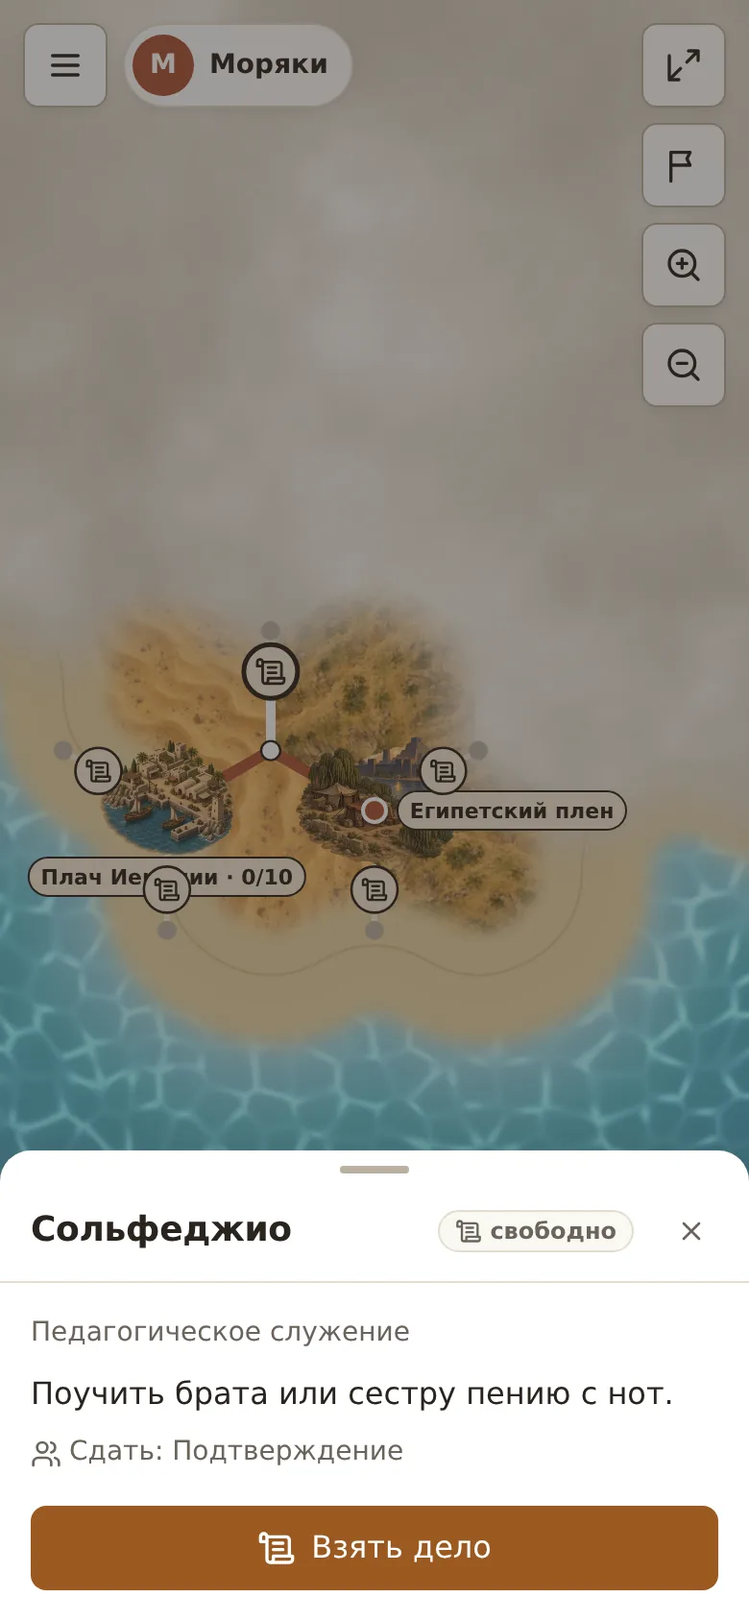
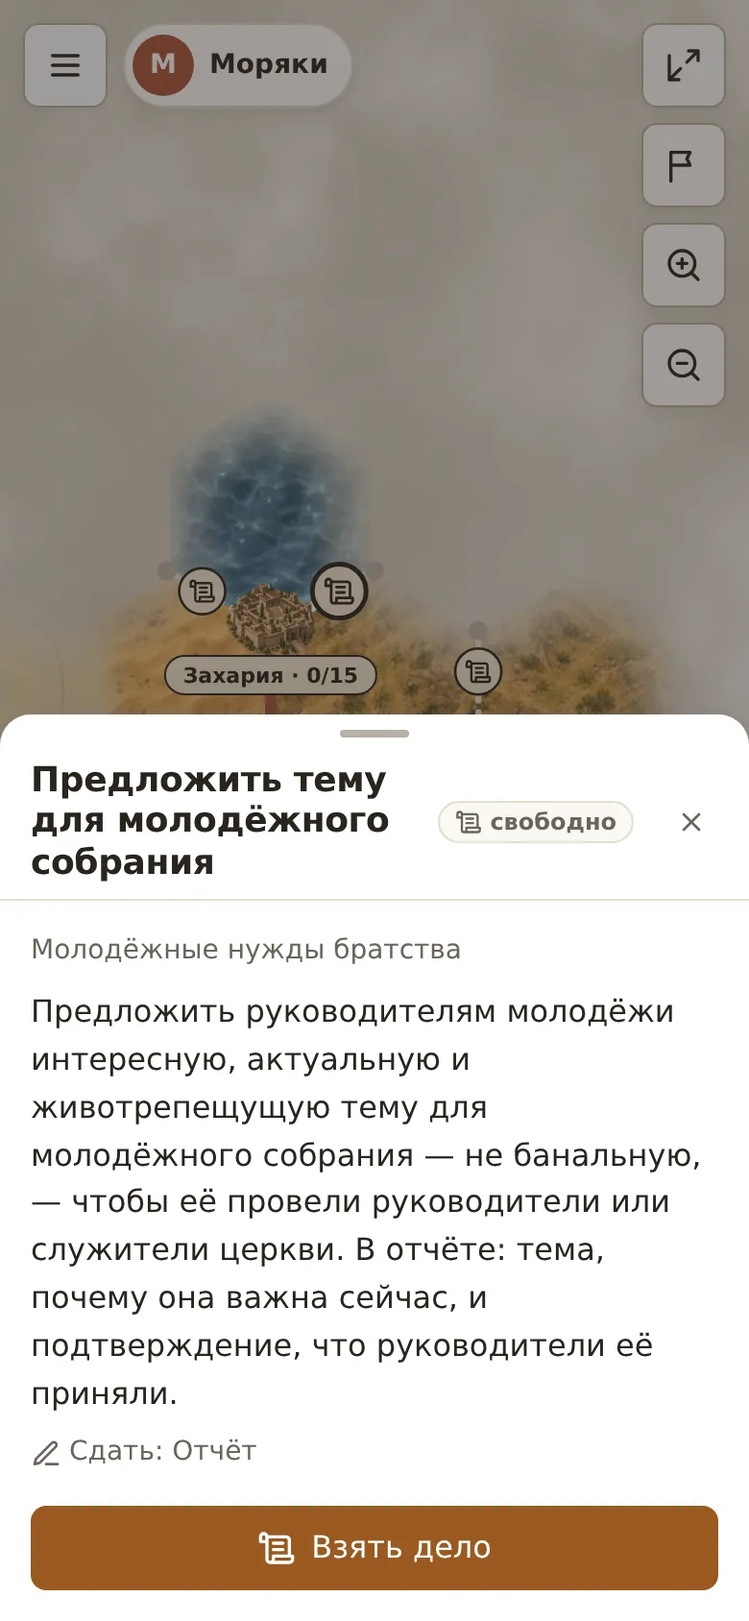
Знаки городов и стартов в полтора раза меньше; свежие скриншоты инструкции
Синхронизация набора дел не роняет сервер при недоступной базе.

Claude-Session: https://claude.ai/code/session_01GYZTpVpHB6EzyvMrXyiWEP

diff --git a/apps/web/src/pages/AdminMap.tsx b/apps/web/src/pages/AdminMap.tsx
@@ -92,7 +92,7 @@ export function AdminMap({ gameId, hexes, nodes, edges, progress, cities, battle
   const worldBody = useMemo(() => (<>
             {nodes.map((n) => {
               const p = positions.get(n.key)!;
-              const CITY = size * 1.15, START = size * 1.35;
+              const CITY = size * 0.77, START = size * 0.9; // решение владельца 16.09: знаки городов и стартов в полтора раза меньше прежних (1,15 и 1,35)
               if (n.kind === "START") return <image key={"s" + n.key} href={IMG.start(n.teamIndex ?? 0)} x={p.x - START / 2} y={p.y - START * 0.58} width={START} height={START} />;
               if (n.kind === "CITY") {
                 const owner = ownerOf.get(n.key);
@@ -143,7 +143,7 @@ export function AdminMap({ gameId, hexes, nodes, edges, progress, cities, battle
                       {seen.map((tm, i) => <circle key={tm.id} className="quiet" cx={14 - i * 9} cy={-14} r={4.5} fill={tm.color} stroke="var(--surface)" strokeWidth={1} />)}
                     </g>
                     {showLabels && (
-                      <g className="pick" style={sc(raw.x, raw.y + size * 1.15 * 0.48)} onClick={pick}>
+                      <g className="pick" style={sc(raw.x, raw.y + size * 0.77 * 0.48)} onClick={pick}>
                         <g className="quiet">
                           <rect x={-lw / 2} y={-10} width={lw} height={20} rx={10} fill={sel ? "var(--accent)" : "var(--map-paper)"} stroke="var(--text)" strokeWidth={1} />
                           <text textAnchor="middle" dy="0.35em" fontSize={11} fontWeight={700} fill={sel ? "var(--on-accent)" : "var(--text)"}>{label}</text>

diff --git a/apps/web/src/lib/en/changelog.ts b/apps/web/src/lib/en/changelog.ts
@@ -1,6 +1,7 @@
 /** EN-строки раздела «Что нового». Ключ — русская строка из content/changelog.ts. */
 export const CHANGELOG_EN: Record<string, string> = {
   "Что нового": "What's new",
+  "Знаки городов и стартовых точек на карте уменьшены в полтора раза.": "City and starting-point markers on the map are one and a half times smaller.",
   "Новые и изменённые дела стандартного набора теперь сами попадают в идущие игры, где набор использован; дела, которые администратор правил, не трогаются.": "New and changed deeds of the default set now reach running games that use the set by themselves; deeds edited by the administrator are left alone.",
   "В стандартном наборе дел появился пост за нужды семьи, молодёжи, церкви или братства; в деле про угощение уточнено: любого человека, кроме ближайших родственников.": "The default deed set gained a fast for the needs of family, youth, church or brotherhood; the meal deed now says: anyone except close relatives.",
   "След за парусниками и зверями идёт по пройденному пути и повторяет все повороты, расходясь и растворяясь с расстоянием.": "The wake behind ships and sea creatures follows the path travelled and repeats every turn, spreading and fading with distance.",

diff --git a/apps/web/src/content/changelog.ts b/apps/web/src/content/changelog.ts
@@ -6,6 +6,7 @@ export interface ChangeDay { date: string; items: string[] }
 
 export const CHANGELOG: ChangeDay[] = [
   { date: "2026-09-16", items: [
+    "Знаки городов и стартовых точек на карте уменьшены в полтора раза.",
     "Новые и изменённые дела стандартного набора теперь сами попадают в идущие игры, где набор использован; дела, которые администратор правил, не трогаются.",
     "В стандартном наборе дел появился пост за нужды семьи, молодёжи, церкви или братства; в деле про угощение уточнено: любого человека, кроме ближайших родственников.",
     "По большому морю неспешно ходят парусники трёх видов: рыбацкий шлюп, когг с прямым парусом и трёхмачтовый корабль — вид сверху, как вся карта, с обшивкой, снастями и надутыми парусами.",

diff --git a/apps/web/src/pages/TeamMap.tsx b/apps/web/src/pages/TeamMap.tsx
@@ -80,7 +80,7 @@ export function TeamMap({ map, teamIndex, selectedTaskId, onSelect, onSelectCity
   // Уровни детализации: при отдалении метки дел прячутся, подписи городов становятся короче и мельче.
   const showMarkers = k >= 0.9, fullLabels = k >= 1.6, showForks = k >= 0.7;
   // Город масштабируется с картой: сидит на перекрёстке и занимает место до середины трёх сторон.
-  const CITY = size * 1.15, START = size * 1.35;
+  const CITY = size * 0.77, START = size * 0.9; // решение владельца 16.09: знаки городов и стартов в полтора раза меньше прежних (1,15 и 1,35)
   /** Экранный элемент в точке карты: сдвиг в единицах карты, размер — через --inv (ставится на каждый кадр жеста), extra — после масштаба. */
   const sc = (x: number, y: number, extra = "") => ({ transform: `translate(${x}px, ${y}px) scale(var(--inv, 1))${extra ? " " + extra : ""}` });
 

diff --git a/apps/api/src/services/defaultDeeds.ts b/apps/api/src/services/defaultDeeds.ts
@@ -125,7 +125,8 @@ export async function removeDeed(gameId: string, deedId: string): Promise<boolea
 
 /** При старте сервера: все незавершённые игры. */
 export async function syncAllGames(log: { info: (o: object, msg: string) => void; error: (o: object, msg: string) => void }): Promise<void> {
-  const games = await prisma.game.findMany({ where: { status: { not: "FINISHED" } }, select: { id: true } });
+  // Недоступная база при старте не должна ронять сервер: сервер поднимется, синхронизация пройдёт при следующем запуске.
+  const games = await prisma.game.findMany({ where: { status: { not: "FINISHED" } }, select: { id: true } }).catch((e: unknown) => { log.error({ err: e }, "default deeds sync skipped: database unavailable"); return [] as Array<{ id: string }>; });
   const total: SyncResult = { added: 0, updated: 0, removed: 0 };
   for (const g of games) {
     try { const r = await syncGameDeeds(g.id, "auto"); total.added += r.added; total.updated += r.updated; total.removed += r.removed; }

diff --git a/docs/LANDS_OF_THE_WORD.md b/docs/LANDS_OF_THE_WORD.md
@@ -704,6 +704,8 @@ npm run typecheck
 
 ### 12.1a Слои карты (реализовано, сентябрь 2026)
 
+✅ **Размер знаков (решение владельца 16.09):** картинка города — 0,77 гекса, стартовой точки — 0,9 гекса (в полтора раза меньше прежних 1,15 и 1,35); подпись города стоит под картинкой на 0,48 её размера. Скриншоты инструкции перегенерированы.
+
 Снизу вверх: **море** — WebGL-шейдер под SVG (`pages/SeaGL.tsx`), без картинок и без плиток (решение владельца 14.09: любая плитка, даже с несоизмеримыми масштабами и поворотами, читалась как повтор): цвет каждого пикселя считается прямо в координатах карты, повторяться нечему. Вода: две сети мелкой живой каустики (клеточный шум с ячейкой около половины гекса; точки ячеек чуть дрожат, а вся сеть плывёт по ветру — мелкая быстрее, крупная медленнее; координаты искажены двумя шумами, крупный неподвижен, мелкий бежит по ветру, поэтому линии кривые и «дышат»; сети перемножаются — светятся пятна и пересечения, а не паутина), блики гаснут пятнами по маске, крупная зыбь темнит воду и идёт тем же ветром ещё медленнее, поверх — пологие ветровые волны пятнами (два фронта, фаза сломана шумом, полосатости нет); при отдалении рябь тает и вода с высоты гладкая. Одно направление ветра для всего — решение владельца 14.09: движение должно быть согласованным, а не хаотичным. **Цвет воды — по глубине** (`pages/Seabed.ts`, решение владельца 15.09, пример — снимок Земли): один раз на карту считается поле глубины низкого разрешения над поясом моря — расстояние до ближайшего гекса поля или островка; у берега светлый шельф (около 7 радиусов гекса, ширина гуляет по крупному шуму — граница неровная; у островков шельф вдвое уже), между близкими островами и в проливе тоже светло, вдали тёмная глубина; в глубокой воде шумом добавлены светлые гряды и тёмные впадины; блики каустики ярче на мели. Шейдер читает поле как текстуру с плавной интерполяцией, запасной canvas — как готовую раскраску. Поле загружается в живой WebGL-контекст отдельным эффектом: пересоздание контекста при каждой перезагрузке карты (сохранение настроек, события игры) теряло его, и море падало на запасной canvas — владелец видел «старое море» (15.09, исправлено); границы поля, островки и дно считаются по ключу гексов, а не по новому объекту массива. ~30 кадров в секунду при видимой вкладке, разрешение 0,7 (на больших экранах 0,55) CSS-пикселя — шейдер считается на каждый пиксель, и это главная нагрузка; шум в 3 октавы; пауза в скрытой вкладке; без WebGL — запасной вариант на canvas 2D с узорами шума (`SeaCanvas`). Рецепт по источникам о стилизованной воде (Worley-каустика F2−F1, домен-варп, перемножение двух выборок, ограничение плотности) собран агентом-исследователем; **гексы местности** (`TilesLayer`, решение владельца 15.09 после «фризов» зума) — canvas под миром: картинки местности рисуются в растр для текущего вида с запасом в половину экрана, при перетаскивании растр сдвигается, при щипке масштабируется и обновляется резким не чаще 100 мс (берег — 180 мс), окончательно — через 140 мс покоя; разрешение растра гексов не выше 1.5 CSS-пикселя, берега — 0.5 (он размыт, и полноэкранное размытие в 2–3× плотности на ноутбуке «фризило» зум); раньше это были SVG-узоры с картинками у 140 гексов, и каждая фиксация масштаба перерастрировала их целиком; **мир** — SVG размером с экран плюс запас 0.4 экрана вокруг, viewBox — видимая область карты под зафиксированный масштаб (решение владельца 15.09: SVG размером со всю карту при приближении «фризил» зум на компьютере); между фиксациями композитор двигает и масштабирует растр CSS-трансформацией, после жеста viewBox пересчитывается и слой растрируется заново один раз, но растр никогда не больше экрана с запасом; если по ходу жеста масштаб ушёл дальше ×1.5 или сдвиг дальше 0.3 экрана — фиксация происходит прямо в жесте, чтобы края не оголялись; переменные `--k`/`--inv` обновляются не чаще 120 мс: границы гексов, берег над гексами (песок, растворяющийся в местность двенадцатью узкими кольцами, линия влажного песка), стороны, города; **озёра** (`pages/Lakes.tsx`, решение владельца 15.09: «не просто наложение сверху») — WebGL-слой под миром рисует каждое открытое озеро целиком: картинка воды преломляется (колышется) двумя шумами, к берегу мельче и светлее, блики каустики, ветровая рябь и искры солнца, край сглажен; в SVG мира у такого гекса нет заливки, только граница; без WebGL — обычная картинка; ~30 кадров в секунду, при «уменьшить движение» неподвижно; шум общий с морем (`NOISE_GLSL` в `SeaGL.tsx`); **туман** — canvas без событий: облака из бесшовного шума трёх плиток (считается в коде, без картинок), маска тумана — гексы с расширением и растушёвкой, строится только при изменении тумана; пониженное разрешение, ~24 кадра в секунду для дрейфа и сразу при движении карты, пауза в скрытой вкладке, при «уменьшить движение» — без дрейфа; **живность** — canvas: кит, косатка и стайка дельфинов приходят из-за края карты, огибают остров по воде (прямая между двумя дальними точками выталкивается на профиль берега) и уходят за противоположный край, пауза вне экрана и новый маршрут; чайки кружат у берега, клин птиц перелетает остров от края до края; мир живности живёт независимо от перерисовок карты; всё рисуется кодом в единицах карты, ~24 кадра в секунду, при «уменьшить движение» слой не показывается; **названия островов** («Ветхий Завет», «Новый Завет», показываются при отдалении) — по дуге вдоль нижнего берега, как на старых картах (выбор владельца 15.09 из шести вариантов размещения: в центре острова подпись спорила с номерами городов у администратора): невидимая дуга 200° радиусом «остров + 4 гекса» с центром острова, текст по её середине (`IslandLabel`, `islandGeometry`); шрифт Philosopher (OFL, файлы кириллицы и латиницы в `apps/web/public/fonts`, подключён в `base.css`, используется только здесь) капителью с разрядкой, светлые буквы с мягкой тёмной тенью и тонкой обводкой — читаются на воде; при отдалении уменьшаются не ниже 0.7; **подписи и значки** — второй SVG мира, элементы стоят в координатах карты со `scale(1/k)`, поэтому при перетаскивании их тоже двигает композитор. Вид (масштаб и сдвиг) живёт в ref и рассылается слоям сразу; состояние React («зафиксированный» масштаб, под который мир растрируется заново) обновляется только в конце жеста и по кнопкам. По ходу жеста детали масштабируются CSS-переменными, которые `WorldSvg` ставит на каждый кадр: `--k` (толщины линий), `--inv` (подписи и метки, при отдалении до половины), `--inv-isl` (названия островов, не ниже 0.7) — экранные элементы стоят как `translate(x,y) scale(var(--inv))`, без перерисовки React и без перерастрирования: детали масштабируются уже пока пальцы на экране, а не только после отпускания (решение владельца 14.09). Толщины линий задаются в пикселях экрана через CSS-переменную `--k`; при отдалении (k < 1) стороны уменьшаются вместе с картой. Береговая линия считается в `packages/domain/src/coast.ts` (контуры границы поля, сглажены кривыми через середины сторон). Земля под туманом — ровный светлый цвет, облака поверх; край облака растворяется в открытую зону примерно на полгекса. Город команды обведён по контуру картинки цветом команды (SVG-фильтр расширения альфа-канала), метки дел стоят на двух третях стороны от известного перекрёстка. Минимальный масштаб — вдвое мельче, чем «вся карта» (вокруг острова остаётся широкое море), максимальный — в 8 раз крупнее «всей карты». Листать карту можно в пределах пояса моря вокруг поля (`seaField`: запас 0.6 большей стороны поля с каждой стороны) или на треть экрана за поле — что щедрее; при приближении пояс растёт вместе с масштабом, и в море можно уйти далеко. **Берег и острова** — общий canvas между морем и миром (`apps/web/src/pages/Islets.tsx`): отмель поля (28 узких колец с подобранной прозрачностью, суммарная плотность растёт плавно), полоса песка и песок, растворяющийся в отмель, плюс отмели островков рисуются во временный canvas и переносятся на экран с размытием на шаг колец — переход воды в песок сплошной, без ступенек и резкой кромки (решение владельца 15.09). Растр берега кэшируется для вида (с запасом в половину экрана вокруг): при перетаскивании он сдвигается, при щипке масштабируется как картинка, пересчитывается через 140 мс после того, как вид устоялся — размытие не считается на каждый кадр. Canvas размером с экран, поэтому стоимость не зависит от масштаба; фильтр размытия в SVG мира был бы дорог для телефона (весь остров в пикселях устройства при каждом перерастрировании). Без поддержки фильтров canvas (старый Safari) — те же кольца без размытия. **Острова** (`packages/domain/src/islets.ts`, контуры `isletShapes.ts`, рисование в `apps/web/src/pages/Islets.tsx`) — украшение без узлов и механики: шесть нарисованных островов (`apps/web/public/img/islet/islet-N.webp`, исходники PNG рядом; вид сверху как у городов, прозрачный фон, пляж на картинке). В поясе моря (запас в одну большую сторону поля с каждой стороны) детерминированно по набору гексов поля раскладываются девять островов; **размер — решение владельца**: самый большой около четверти площади главного острова (r ≈ 3.6 гекса), остальные меньше; **детали на картинках должны быть в масштабе поля** (пальма не больше пальмы у города), для такого размера нужны исходники 4096 px. У каждой картинки по прозрачности снят контур (72 радиуса от центра, скрипт `scripts/islet-shapes.py`): по нему под картинкой рисуется та же плавная отмель, что у главных островов и по нему живность обходит остров. Картинки островов рисуются на том же canvas без размытия (в SVG мира браузер растягивал бы готовый растр при приближении, и острова мылились). Не ближе отмели к полю и не пересекаются между собой. Киты, косатки и дельфины обходят их (маршруты сквозь островок отбраковываются, жёсткая граница воды выталкивает и от островков). Живности: два кита, две косатки, две стаи дельфинов, пять чаек и клин птиц. ✅ **Парусники (решение владельца 16.09):** в слое живности (`pages/Fauna.tsx`) по большому морю ходят четыре парусника трёх видов — рыбацкий шлюп с косым парусом, одномачтовый когг с прямым парусом и трёхмачтовый корабль; рисуются **строго сверху, как вся карта** (решение владельца 16.09: боковой ракурс отклонён), но проработанно: корпус с округлым бортом (градиент палуба–борта), планширь, обшивка палубы, бак и ют ступенями, люки, шлюпка, бушприт; мачты сверху с тенью по солнцу, реи обрасоплены под ветер, паруса видны как надутые серпы со швами и тенью к шкаторине (пузо — вперёд и на подветренный борт, как при ветре с кормы; решение владельца 16.09), у корабля марсели поверх нижних парусов, кливер, штаги, ванты, брасы и шкоты, вымпел по ветру; каждый вид отрисовывается в спрайт (`paintShip`) по уровням разрешения 1/2/4/8/12 px на единицу карты — берётся ближайший не ниже текущего масштаба экрана с учётом dpr, поэтому при приближении корабль остаётся резким (решение владельца 16.09: размытие при зуме), поворачивается по курсу, пузо парусов — на подветренный борт (зеркало по ветру), тень корпуса на воде по солнцу, носовая волна, лёгкая качка. ✅ **След по пути (решение владельца 16.09: прямой след позади тела неестественен):** и звери, и парусники оставляют точки пути (`Trail`, кольцевой буфер на 64 точки: положение, время, сила у поверхности); `drawTrail` рисует по ним осевую пену гладкой лентой (`ribbon`: контур с шириной, растущей с возрастом, три вложенные ленты для мягких краёв, затухание — градиент вдоль следа) и у парусников два расходящихся крыла-ленты (угол Кельвина ≈ 19°; решение владельца 16.09: ступенчатые полосы отклонены), поэтому след повторяет все изгибы курса; живёт 9 с у кораблей, 6 с у китов и косаток, 3 с у дельфинов, у зверей сила равна близости к поверхности. У самого тела остаётся только пятно пены и носовая волна (`drawBodyFoam`). Стенд — `renderWorldSnapshot` (прогон мира и отрисовка целиком). Стенд — `drawShipsPreview`. Пять парусников идут медленнее китов (0,16–0,24 гекса/с) по тому же «поводку» из-за края карты за противоположный край с отступом 2,8–4,2 гекса от берега; хорды маршрутов всех существ держатся не дальше ~1 maxR от центра, чтобы проходить через видимое море, и не режут остров посередине. Стенд для проверки рисунка — `drawShipsPreview` (сборка esbuild, скриншот Playwright). ✅ **Физика движения (решение владельца 16.09):** звери и парусники — кинематика тела, а не точки: ход только вдоль курса, курс меняется через угловую скорость, ограниченную кривизной (минимальный радиус разворота `turnR` в длинах тела: кит 1,3, косатка 1,0, дельфин 0,7; шлюп 1,6, когг 2,2, корабль 2,6) и сглаженную запаздыванием «руля»; поэтому тело поворачивается ровно на дугу траектории и не проворачивается вокруг оси. Берег впереди тело видит заранее (`avoidHeading`: пробная точка перед носом, отклонение курса наружу), выталкивание с кромки (`keepInWater`) — только страховка с доворотом не резче 1,5 обычной угловой скорости, один раз за кадр. Проверка — `traceWorld` (безэкранный прогон мира, скрипт считает угловую скорость и «занос» по трекам).
 
 ### 12.2 Масштабирование и уровни детализации (LOD)
